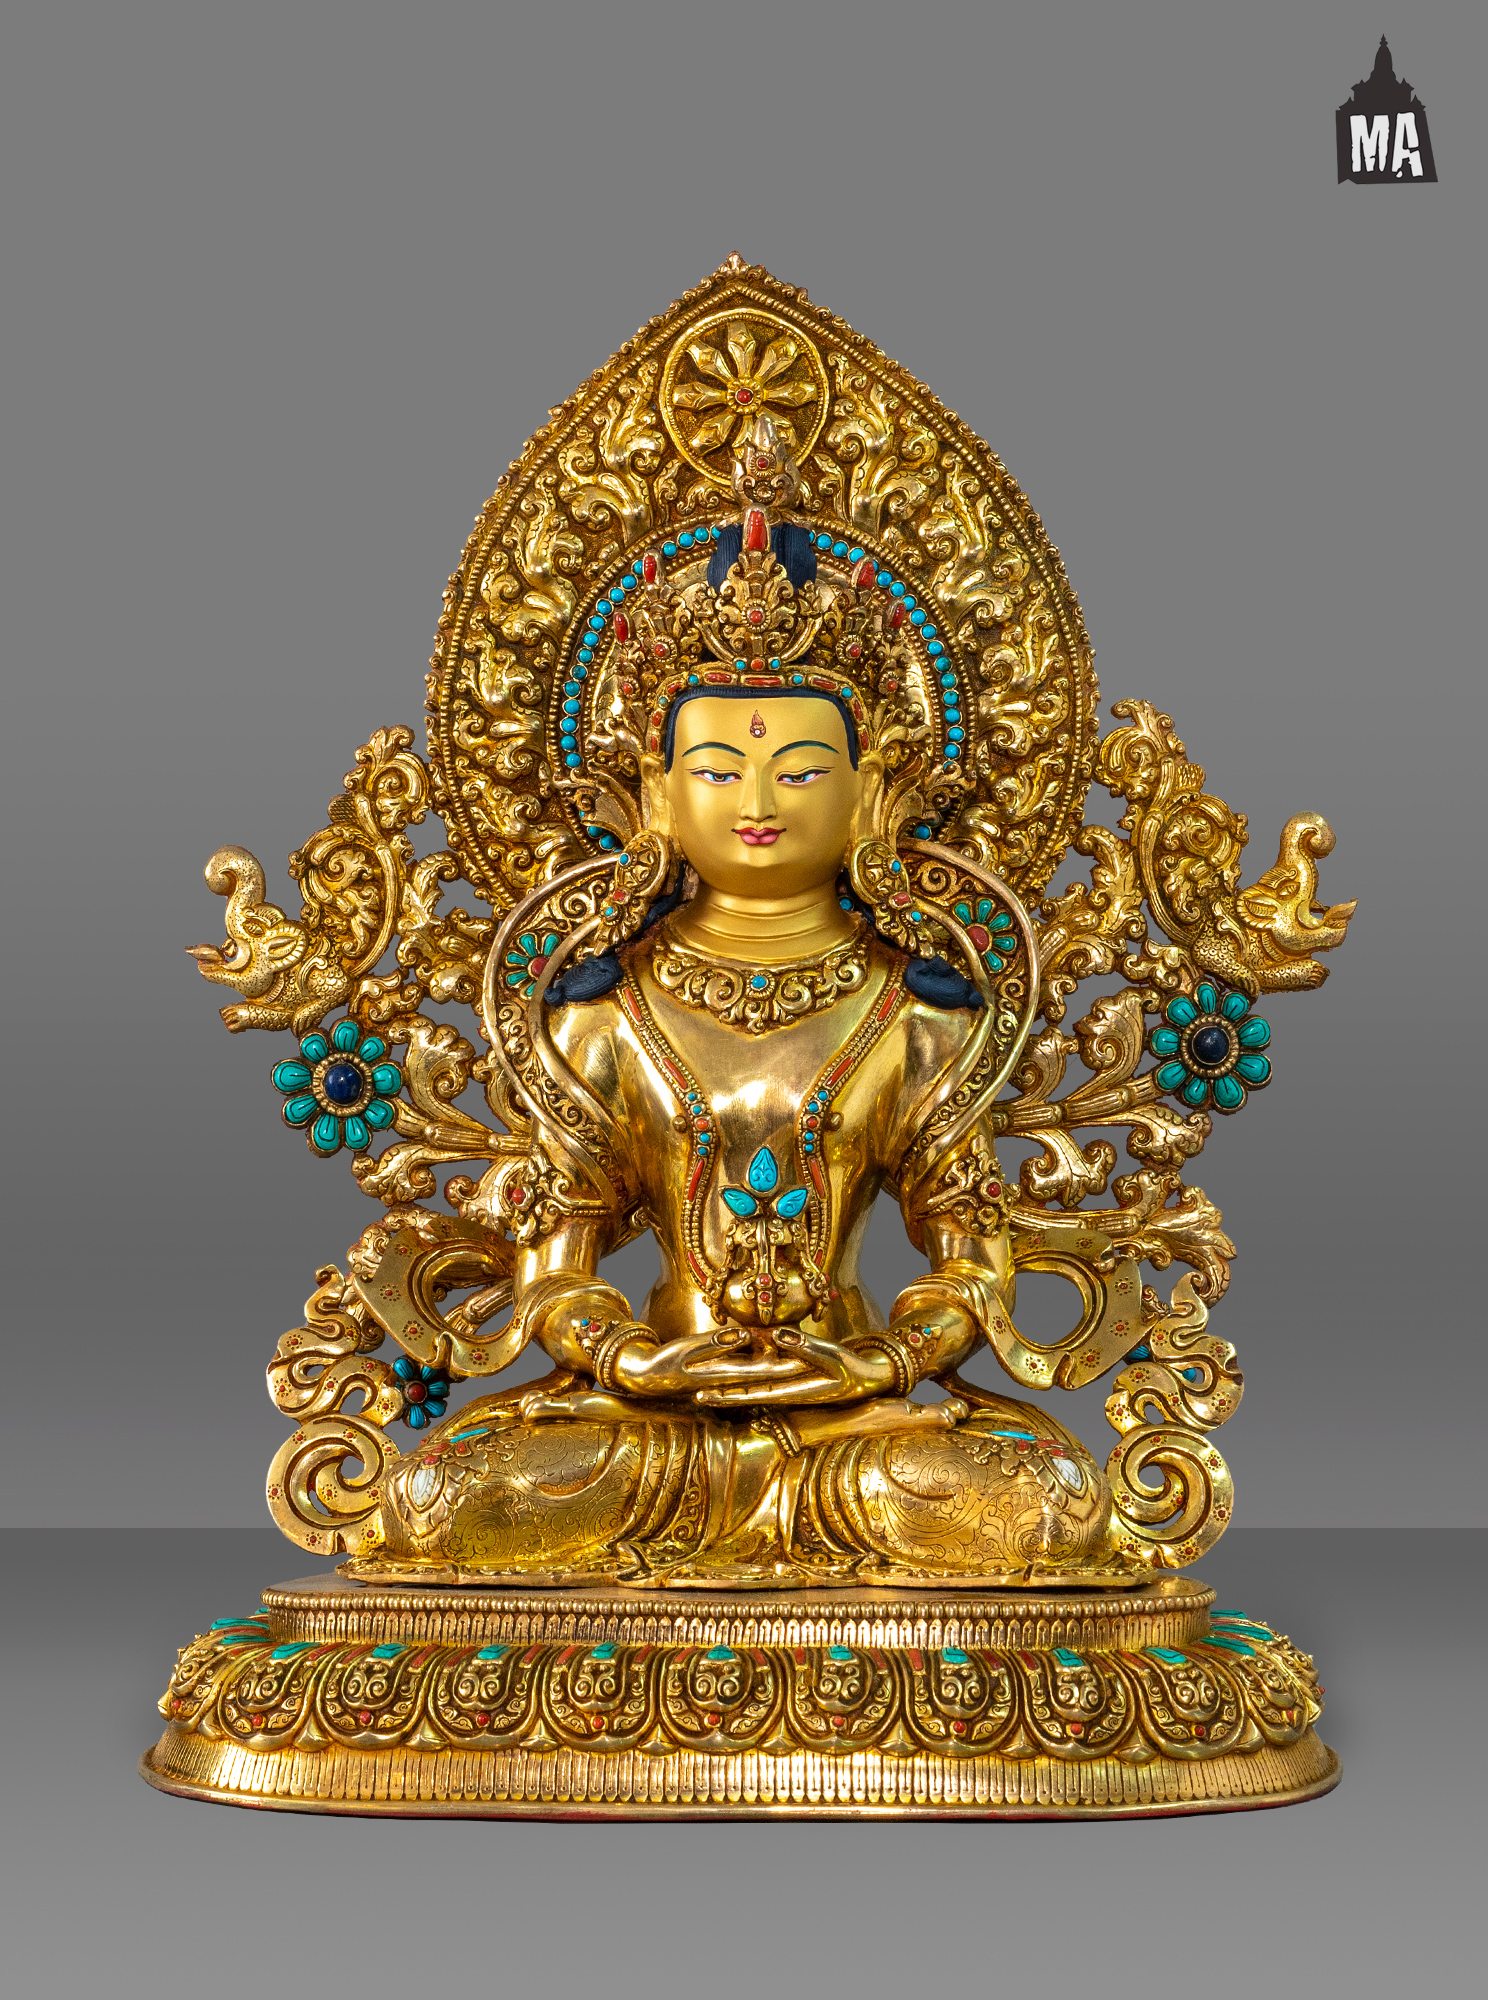
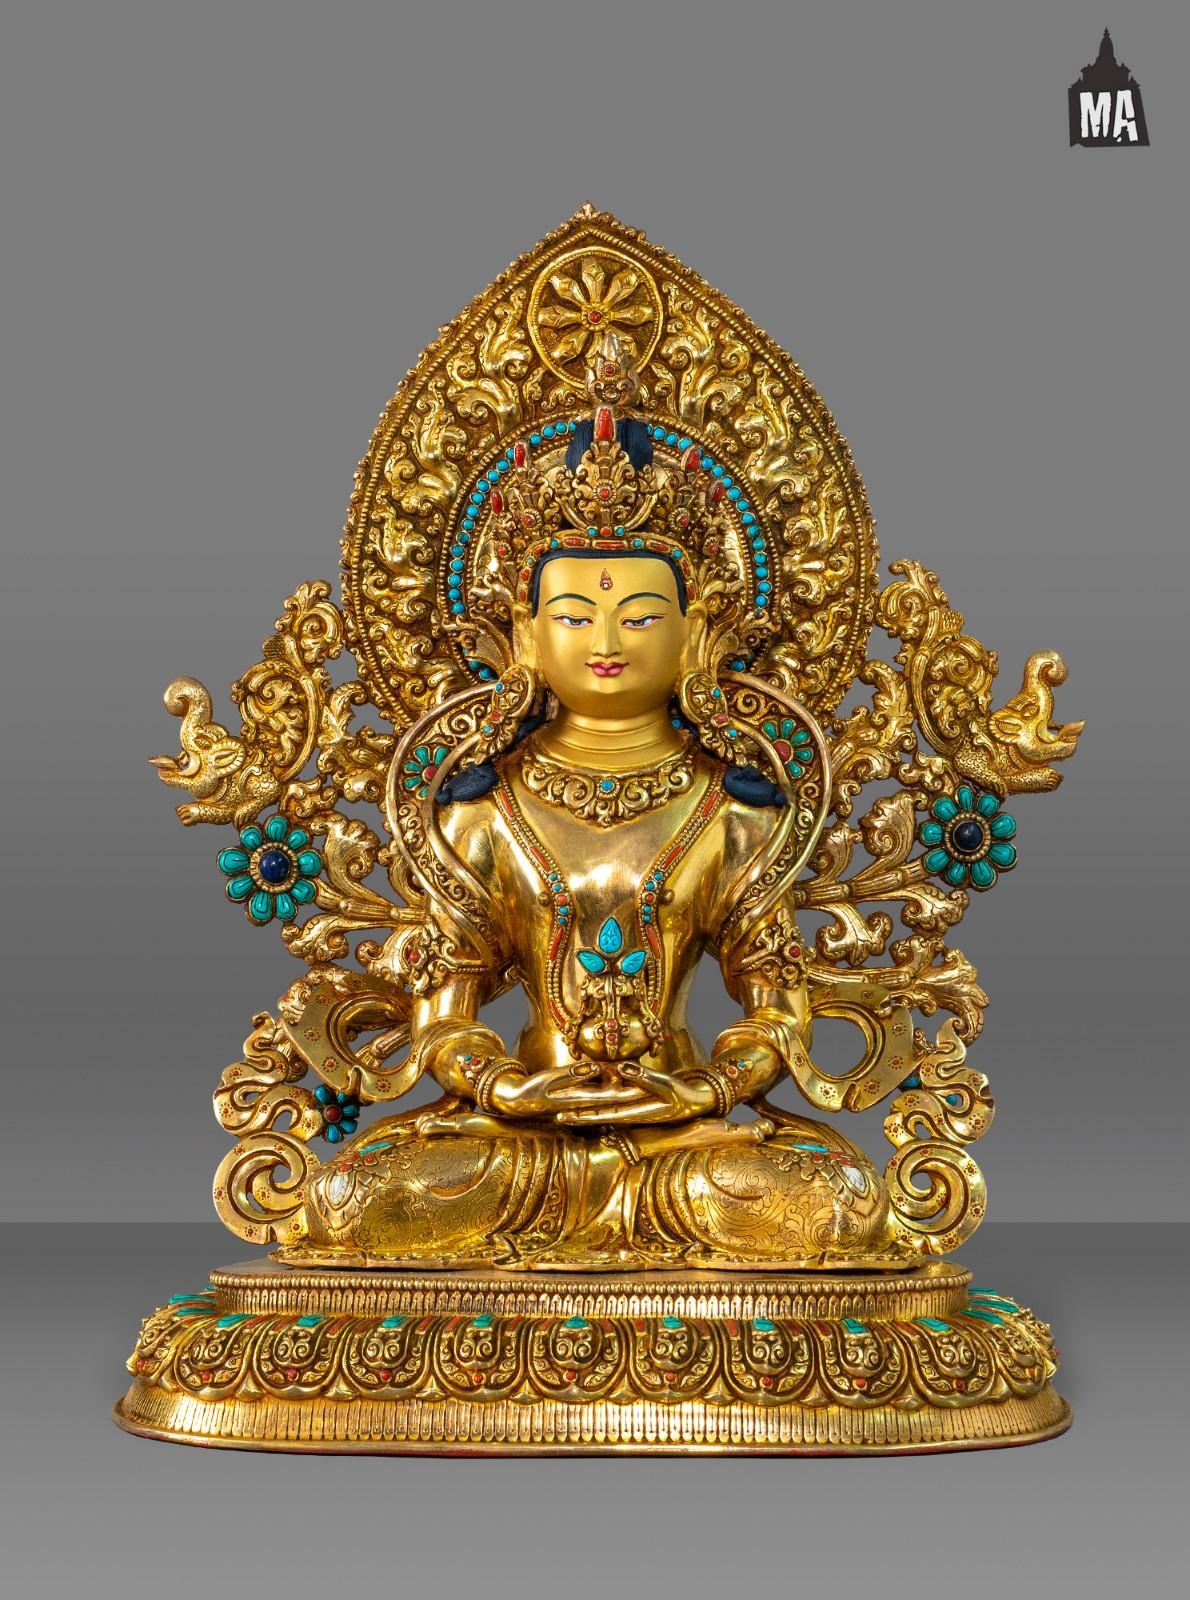
image size reduced

diff --git a/templates/section_home/hero_home.html b/templates/section_home/hero_home.html
@@ -6,8 +6,8 @@
     <h2 class="heading-xl anim-section" data-delay="0.2">Handcrafted Timeless Beauty from the Himalayas</h2>
     <p class="text-body anim-section" data-delay="0.4">Unique statues in brass, wood, marble & more — each piece shows centuries of Nepali artistry.</p>
     <div class="hero-buttons anim-section" data-delay="0.6">
-      <a href="gallery.html" class="btn-gold">Explore Collection</a>
-      <a href="gallery.html?filter=new" class="btn-outline-light">View New Arrivals</a>
+      <a href="{% url 'gallery' %}" class="btn-gold">Explore Collection</a>
+      <a href="{% url 'gallery' %}?filter=new" class="btn-outline-light">View New Arrivals</a>
     </div>
   </div>
 </section>

diff --git a/templates/base/navbar.html b/templates/base/navbar.html
@@ -21,9 +21,9 @@
     </button>
   </div>
   <div class="mobile-menu">
-    <a href="index.html" class="nav-link">Home</a>
-    <a href="gallery.html" class="nav-link">Gallery</a>
-    <a href="about.html" class="nav-link">About</a>
-    <a href="contact.html" class="nav-link">Contact</a>
+    <a href="{% url 'home' %}" class="nav-link">Home</a>
+    <a href="{% url 'gallery' %}" class="nav-link">Gallery</a>
+    <a href="{% url 'about' %}" class="nav-link">About</a>
+    <a href="{% url 'contact' %}" class="nav-link">Contact</a>
   </div>
 </nav>

diff --git a/templates/section_home/cta_banner.html b/templates/section_home/cta_banner.html
@@ -4,8 +4,8 @@
     <h2 class="heading-lg">Find Your Perfect Piece</h2>
     <p class="text-body">Each statue tells a story. Let us help you find the one that resonates with yours.</p>
     <div class="cta-buttons">
-      <a href="gallery.html" class="btn-gold">Browse Gallery</a>
-      <a href="contact.html" class="btn-outline-light">Contact Us</a>
+      <a href="{% url 'gallery' %}" class="btn-gold">Browse Gallery</a>
+      <a href="{% url 'contact' %}" class="btn-outline-light">Contact Us</a>
     </div>
   </div>
 </section>

diff --git a/templates/section_contact/content.html b/templates/section_contact/content.html
@@ -53,7 +53,7 @@
             </div>
             <div>
               <p class="label">Address</p>
-              <p class="value">Thamel Marg, Kathmandu 44600, Nepal</p>
+              <p class="value">Kwalkhu Road, Lalitpur, Nepal</p>
             </div>
           </div>
           <div class="contact-info-item">

diff --git a/statuehouse/settings.py b/statuehouse/settings.py
@@ -26,7 +26,7 @@ SECRET_KEY = 'django-insecure-e2x_i#b=w@*@kawtg%!e6^*(kh)u^!aopa*6)15^!e(+(&81x#
 # SECURITY WARNING: don't run with debug turned on in production!
 DEBUG = True
 
-ALLOWED_HOSTS = []
+ALLOWED_HOSTS = ['localhost', '127.0.0.1', 'statuehouse.pythonanywhere.com']
 
 
 # Application definition
